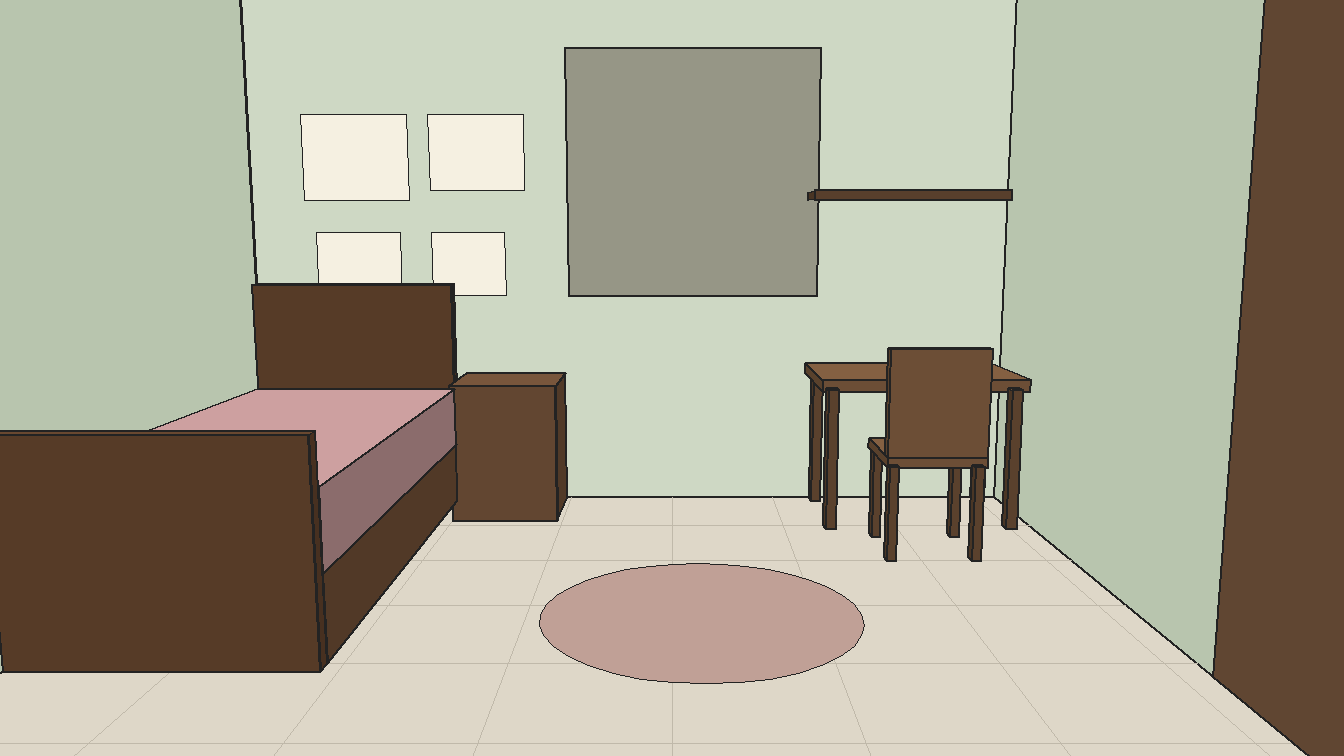
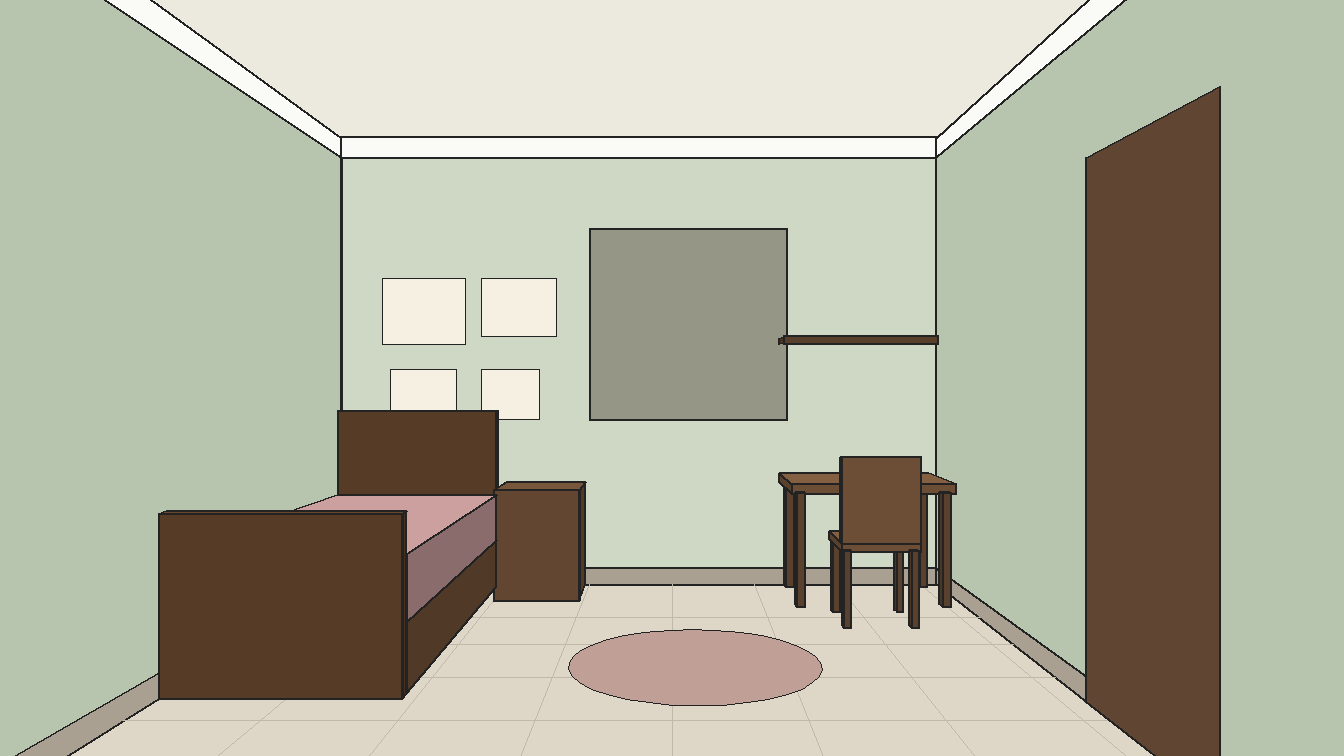
Bedroom plate v4: level one-point blocking with ceiling, cornice and skirting; L06 points to v4
Claude-Session: https://claude.ai/code/session_01Fi6XRJHj6ujpGaMwkoN3Es

diff --git a/tools/room_blocking.py b/tools/room_blocking.py
@@ -1,12 +1,12 @@
 """Exact perspective blocking of Nour's bedroom (metres), drawn with PIL.
-Camera at the entrance, facing the back wall, pitched down a few degrees.
+Camera at the entrance, level, facing the back wall (true one-point perspective).
 Output: locations/L06_blocking.png  (geometry reference for the plate)."""
 import math
 from PIL import Image, ImageDraw
 W, H = 1344, 756
-FOV, PITCH = 66.0, -8.0
+FOV, PITCH = 70.0, 0.0
 f = (W / 2) / math.tan(math.radians(FOV / 2))
-CAM = (0.2, 1.3, -0.4)
+CAM = (0.2, 1.25, -1.2)
 cp, sp = math.cos(math.radians(PITCH)), math.sin(math.radians(PITCH))
 def cam(p):
     X, Y, Z = p[0]-CAM[0], p[1]-CAM[1], p[2]-CAM[2]
@@ -14,7 +14,7 @@ def cam(p):
 def P(p):
     X, Y, Z = cam(p)
     return (W/2 + f*X/Z, H/2 - f*Y/Z)
-L, R, B, F, TOP = -1.8, 1.8, 4.6, 0.6, 2.7
+L, R, B, F, TOP = -1.8, 1.8, 4.6, -0.2, 2.7
 img = Image.new("RGB", (W, H), "white"); d = ImageDraw.Draw(img)
 EDGE = (35, 35, 35)
 def poly(pts, col, w=2):
@@ -26,6 +26,14 @@ poly([(L,0,F),(L,0,B),(L,TOP,B),(L,TOP,F)], (184,197,174))   # left wall
 poly([(R,0,F),(R,0,B),(R,TOP,B),(R,TOP,F)], (184,197,174))   # right wall
 poly([(L,0,F),(R,0,F),(R,0,B),(L,0,B)], (222,215,200))       # floor
 poly([(L,TOP,F),(R,TOP,F),(R,TOP,B),(L,TOP,B)], (236,233,223))
+C = 0.12   # white cornice band where every wall meets the ceiling
+poly([(L,TOP-C,B-0.004),(R,TOP-C,B-0.004),(R,TOP,B-0.004),(L,TOP,B-0.004)], (250,250,246))
+poly([(L+0.004,TOP-C,F),(L+0.004,TOP-C,B),(L+0.004,TOP,B),(L+0.004,TOP,F)], (250,250,246))
+poly([(R-0.004,TOP-C,F),(R-0.004,TOP-C,B),(R-0.004,TOP,B),(R-0.004,TOP,F)], (250,250,246))
+Sk = 0.1   # terrazzo skirting band where every wall meets the floor
+poly([(L,0,B-0.004),(R,0,B-0.004),(R,Sk,B-0.004),(L,Sk,B-0.004)], (170,160,145))
+poly([(L+0.004,0,F),(L+0.004,0,B),(L+0.004,Sk,B),(L+0.004,Sk,F)], (170,160,145))
+poly([(R-0.004,0,F),(R-0.004,0,B),(R-0.004,Sk,B),(R-0.004,Sk,F)], (170,160,145))
 for i in range(1, 8):  # floor grid 0.5 m
     x = L + i*0.5; d.line([P((x,0,F)), P((x,0,B))], fill=(192,185,170), width=1)
 for k in range(1, 9):

diff --git a/HANDOFF.md b/HANDOFF.md
@@ -32,5 +32,8 @@ G36 crayon accepted as is.
 ## Bedroom plate fixed
 `locations/L06_nour-room_v2.png` (Higgsfield 39f98068) replaces the old plate, whose bed was warped (mattress wider than the footboard, a loose leg). The old file is kept as `locations/L06_nour-room_old-warped-bed.jpg`. Every bedroom shot generated from now on uses the fixed plate. Already-approved G29/G30 were made on the old plate; if they read differently in the cut, regenerate them on v2.
 
-## Bedroom plate v3 (geometry-locked)
+## Bedroom plate v4 (geometry-locked)
+v3 had no ceiling in the blocking, so the model invented a broken one. v4 (`locations/L06_nour-room_v4.png`, 57cb6223 -> now 5ca61ad1) uses a level camera, a visible ceiling, a cornice and a skirting band in the blocking. `L06_nour-room` points to v4.
+
+### (older note) v3
 The v2 fix still had broken walls. v3 (`locations/L06_nour-room_v3.png`, Higgsfield 57cb6223) is rendered from an exact perspective blocking built in `tools/room_blocking.py` (`locations/L06_blocking.png`, real metres, one camera). Render it from the blocking ALONE: when the old photo is also attached, the image model copies the old photo and ignores the blocking. `L06_nour-room` now points to v3. Pending: user approval, then redo the G28 start frame and every bedroom shot on v3.
